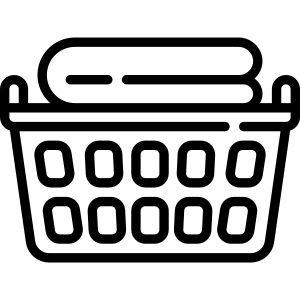
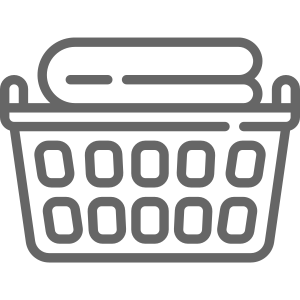
laundry button resized and animated

diff --git a/client/src/Piece Card/pieceCard.css b/client/src/Piece Card/pieceCard.css
@@ -21,15 +21,17 @@
 
 .pieceImage {
     display: flex;
-    height: 16vw;
-    width: 13vw;
+    height: 17vw;
+    width: 14vw;
+
+    margin-top: 1vw;
 
     outline: solid silver;
 }
 
 .cardButtons {
     display: flex;
-    margin-top: 1vw;
+    margin-top: .5vw;
 
 }
 
@@ -42,7 +44,6 @@
     text-decoration: none;
 
     padding-top: 1vw;
-
 }.detailLink:hover{
     text-decoration: underline;
 }
@@ -52,17 +53,19 @@
 
     color: grey;
 
-    padding-right: 1vw;
+    padding-right: 1.5vw;
 
-    font-size: 1.2vw;
+    font-size: 1.1vw;
     font-weight: bold;
-    /* font-family: "Alata"; */
 }
 
 .laundryIcon{
     display: flex;
-    width: 3vw;
-    height: 3vw;
+    width: 2.5vw;
+    height: 2.5vw;
+    padding-top: .3vw;
 }.laundryIcon:hover{
     cursor: pointer;
+    transform: scale(1.2);
+    transition: all .1s;
 }
